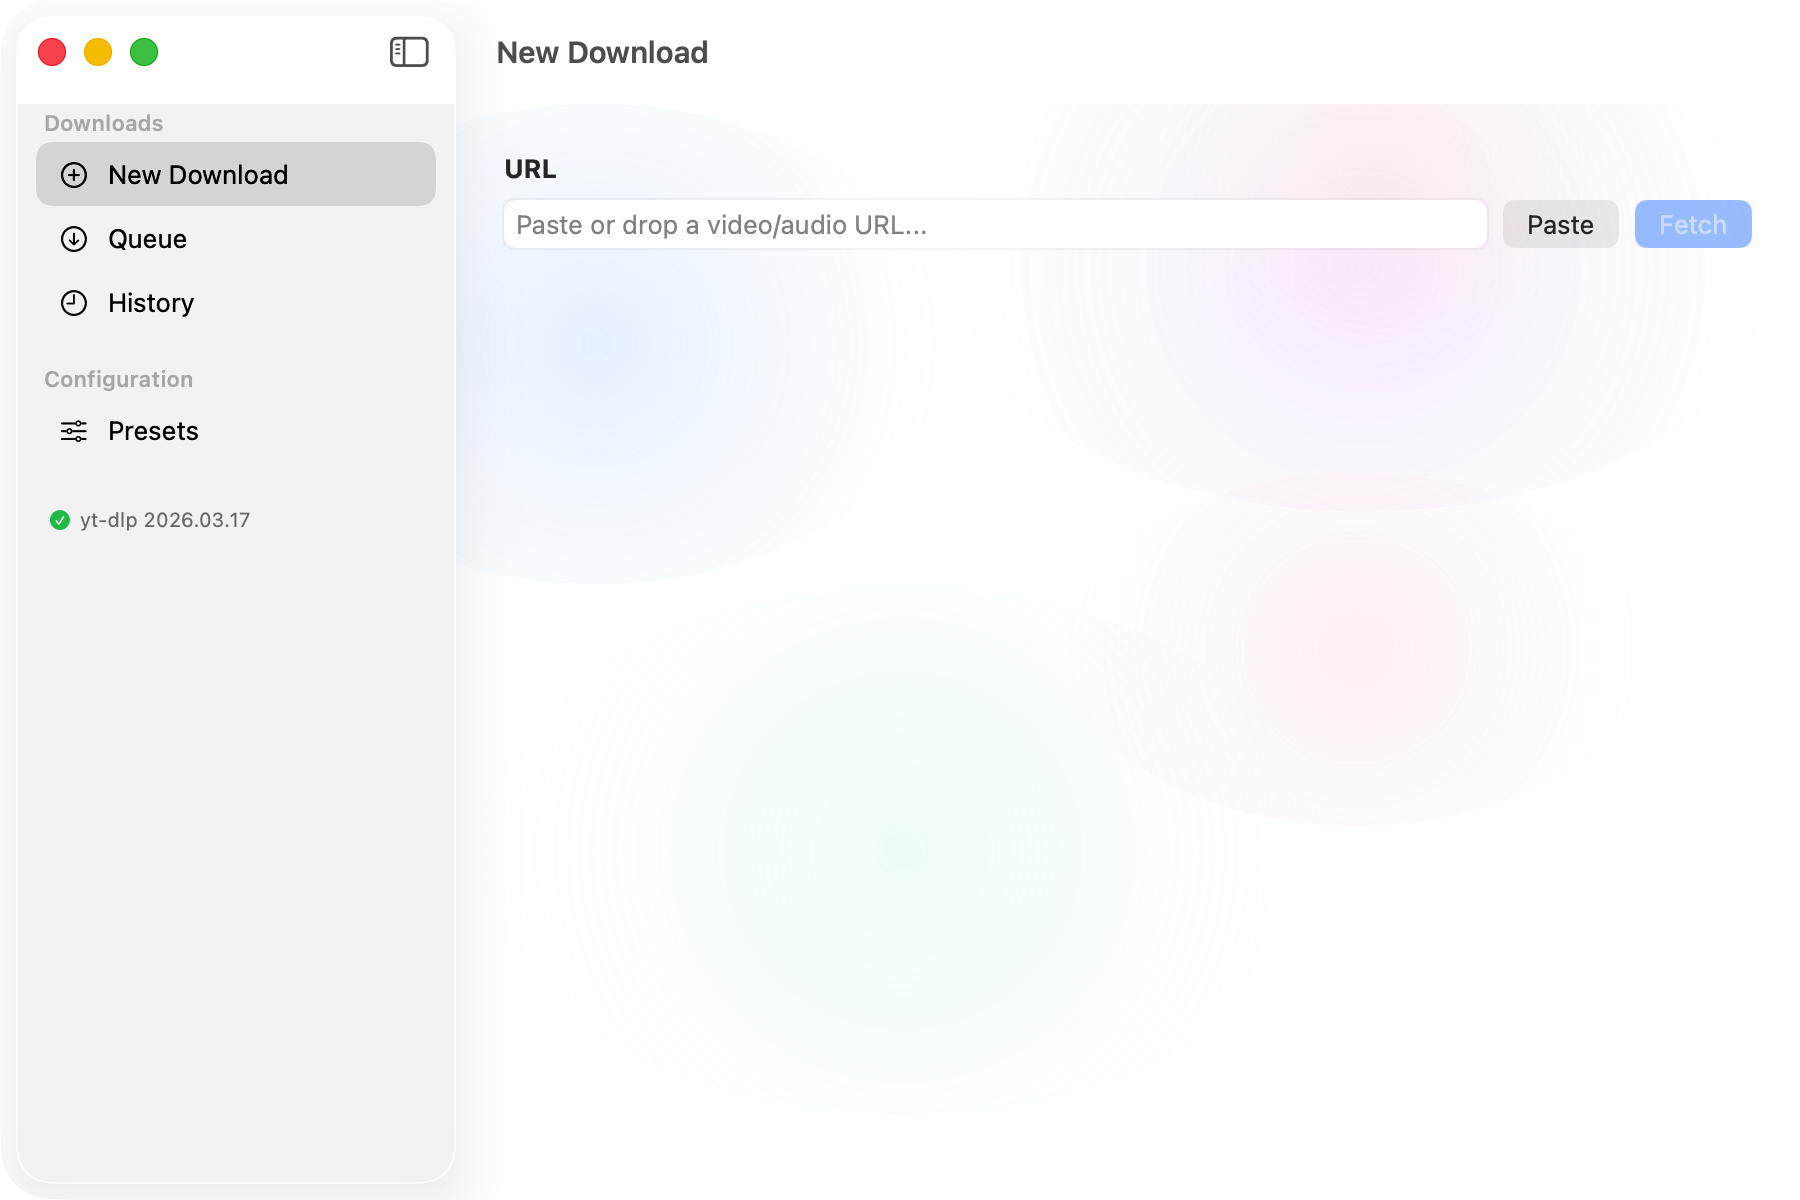
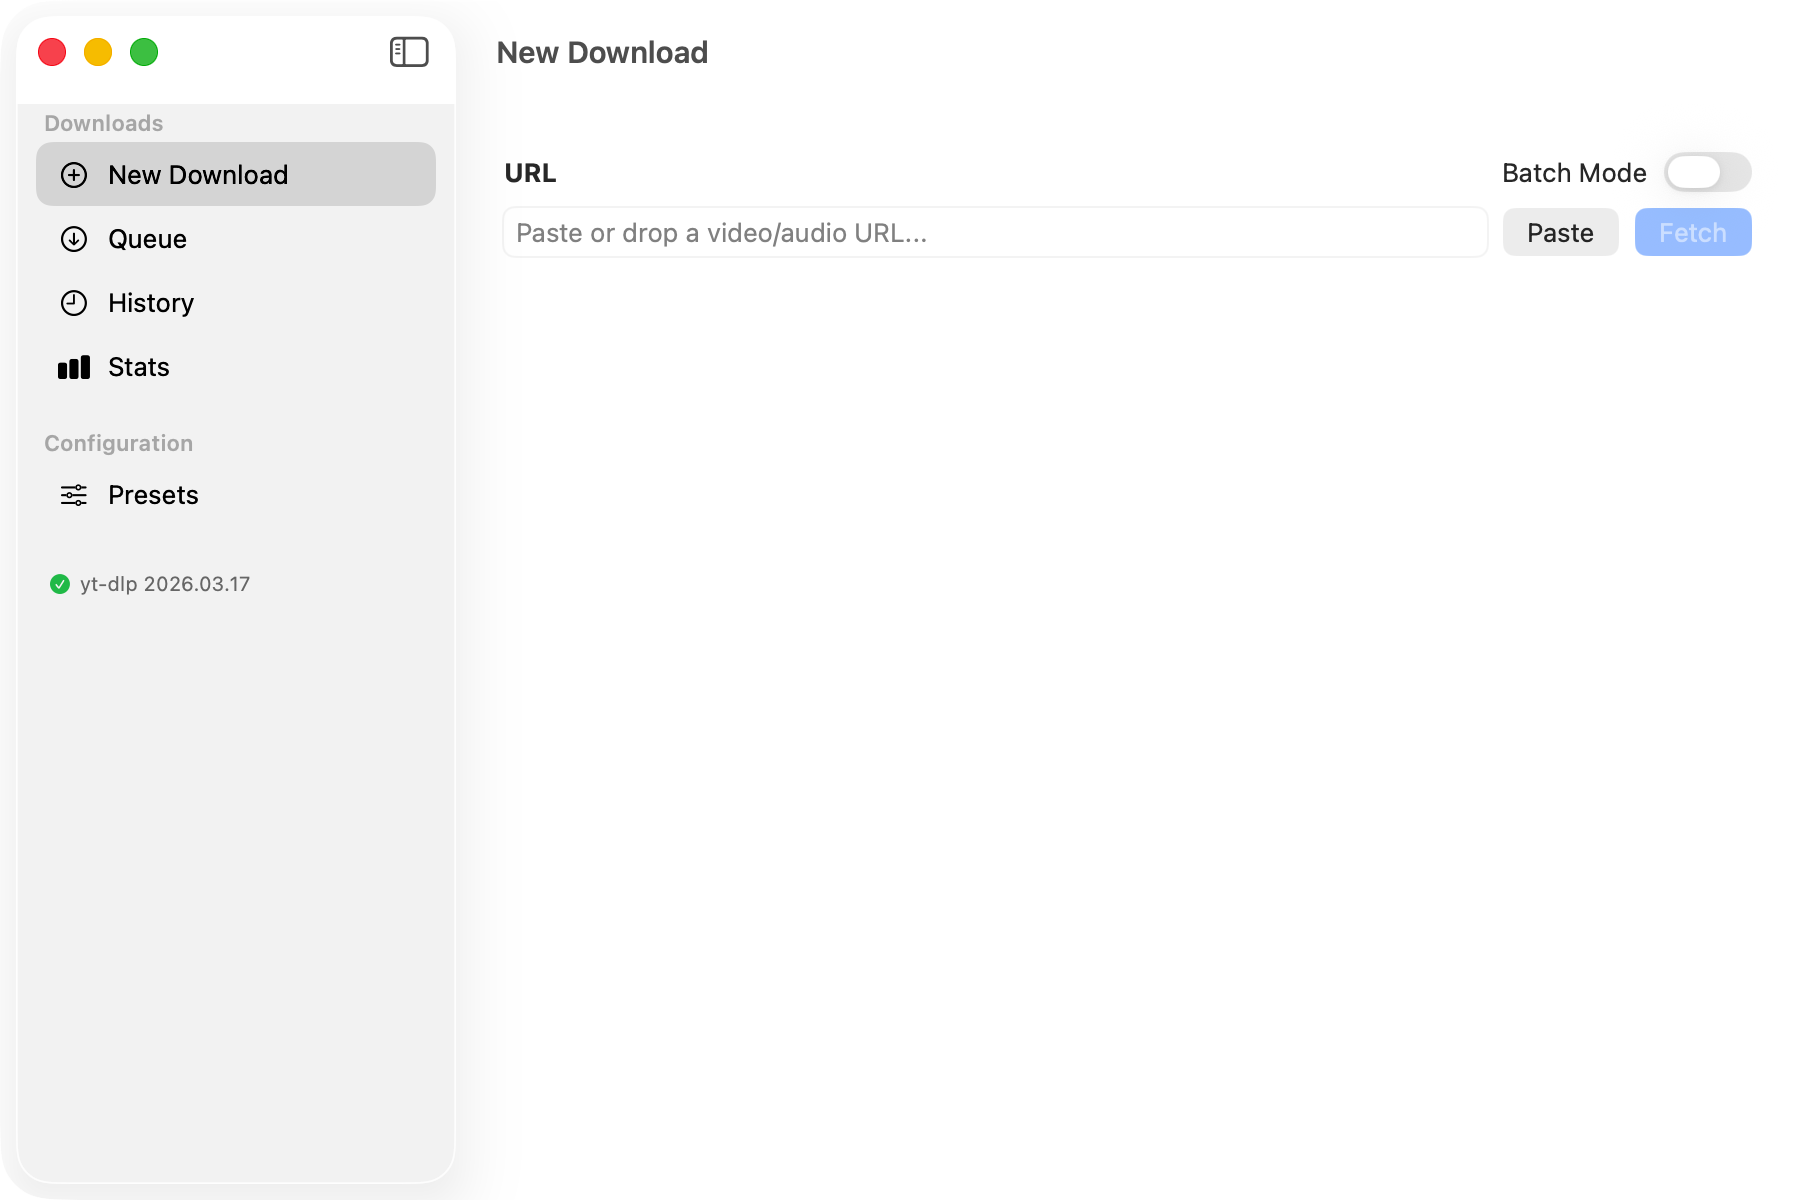
docs: update CHANGELOG, README, screenshots for all new features
- CHANGELOG.md: comprehensive update with all features from this session
  (stats, onboarding, batch URLs, advanced options, AI suggestions,
  thumbnails, file tracking, 16+ bug fixes)
- README.md: 7 screenshots (added media-info and stats views),
  expanded feature list with stats, AI suggestions, batch, advanced
- Screenshots retaken from latest build with all new views

diff --git a/CHANGELOG.md b/CHANGELOG.md
@@ -6,11 +6,19 @@ Format follows [Keep a Changelog](https://keepachangelog.com/).
 ## [Unreleased]
 
 ### Added
-- Animated aurora gradient backgrounds on New Download and empty states
-- Shimmer effect on download progress bars
+- **Stats dashboard** — Swift Charts with bar (extractor), pie (format), line (timeline) charts
+- **Interactive onboarding** — 4-step walkthrough on first launch with Skip option
+- **Rotating tip banners** — contextual tips in empty queue state
+- **Batch URL support** — multi-line input, JSON/CSV parsing, file drop, smart URL extraction
+- **Advanced options panel** — subtitles, SponsorBlock, cookies, speed limit, output template
+- **AI-friendly suggestions** — contextual tips (Whisper, podcast AI, auto-subs, SponsorBlock)
+- **Thumbnail previews** — in download queue and history rows
+- **File tracking** — history detects when downloaded files are deleted/moved
+- **Pulsing glow indicator** — animated dot for active downloads
+- Shimmer gradient effect on download progress bars
 - macOS notifications on download completion with "Show in Finder" and "Open" actions
-- Dock badge showing active download count
-- Drag-and-drop URL support in New Download view
+- Dock badge showing active download count (only active, not completed)
+- Drag-and-drop URL support (URLs + text files) in New Download view
 - Clipboard monitoring for media URLs with inline banner
 - VoiceOver accessibility labels on all interactive elements
 - WCAG AA contrast compliance throughout
@@ -20,6 +28,11 @@ Format follows [Keep a Changelog](https://keepachangelog.com/).
 - Preset editor with built-in and custom presets
 - MenuBarExtra with active download summary
 - Settings window (General, Downloads, Advanced tabs)
+- Apple design system tokens (DesignSystem.swift) — colors, spacing, radius, elevation
+- Card elevation modifiers and glass-morphism backgrounds
+- GitHub Pages landing page at twitchyvr.github.io/Fetch/
+- Wiki with Architecture, Getting Started, yt-dlp Integration pages
+- AGPL-3.0 license, CONTRIBUTING.md, issue/PR templates
 
 ### Fixed
 - Download cancellation now actually terminates the yt-dlp process
@@ -28,22 +41,25 @@ Format follows [Keep a Changelog](https://keepachangelog.com/).
 - Orphaned yt-dlp processes on app quit
 - Thread pool starvation from blocking shell() calls
 - ClipboardMonitor timer duplication on window re-show
-- Deprecated NSApp.activate(ignoringOtherApps:) API
-- "Clear Finished" button disabled logic edge case
-- VoiceOver double-reading in combined accessibility containers
-- History auto-saves on download completion (crash-safe with explicit save)
-- Save deduplication prevents double history entries
+- Settings now wired to DownloadManager (maxConcurrent, outputDirectory)
+- isVideoOnly/isAudioOnly operator precedence bug fixed
+- "Download Again" in History actually re-enqueues (was just copying URL)
+- fetchInfo() cancels previous in-flight task before starting new
+- Queue sidebar badge only counts active downloads (not completed)
+- Sidebar "New Download" text no longer clips (columnWidth on correct view)
+- Onboarding: Skip button, Return key advances, dismissable
+- File size populated from disk in download history
+- FileManager.fileExists dispatched to background thread (scroll perf)
+- Accessibility: thumbnails hidden from VoiceOver, labels on all rows
+- Progress overlay contrast improved for light thumbnails
 
 ### Changed
 - Upgraded text from caption2 to caption for contrast compliance
-- Replaced .tertiary with .secondary foreground styles
-- Changed .ultraThinMaterial to .regularMaterial on clipboard banner
-- Clipboard detection scoped to known media hosts (manual paste/drop accepts any URL)
-- YTDLPService re-encapsulated with pass-through methods on DownloadManager
-- Color.accentColor used instead of hardcoded .blue
+- Color.accentColor used instead of hardcoded .blue throughout
 - MenuBarExtra switched to .window style
-- "New Preset" button moved to toolbar (macOS HIG)
 - shell() refactored to fully async terminationHandler pattern
+- DownloadManager.service re-encapsulated (private + pass-through methods)
+- Clipboard detection scoped to known media hosts (manual paste accepts any URL)
 
 ## [0.1.0] - 2026-04-06
 

diff --git a/README.md b/README.md
@@ -12,29 +12,33 @@ Fetch wraps yt-dlp with a polished native interface — paste a URL, pick a form
 
 ## Screenshots
 
-| New Download | Download Queue | History |
+| New Download | Media Info + AI Suggestions | Stats Dashboard |
 |:---:|:---:|:---:|
-| ![New Download](screenshots/new-download-view.png) | ![Queue](screenshots/queue-view.png) | ![History](screenshots/history-view.png) |
+| ![New Download](screenshots/new-download-view.png) | ![Media Info](screenshots/media-info-view.png) | ![Stats](screenshots/stats-view.png) |
 
-| Presets | Settings |
-|:---:|:---:|
-| ![Presets](screenshots/presets-view.png) | ![Settings](screenshots/settings-view.png) |
+| Download Queue | History | Presets | Settings |
+|:---:|:---:|:---:|:---:|
+| ![Queue](screenshots/queue-view.png) | ![History](screenshots/history-view.png) | ![Presets](screenshots/presets-view.png) | ![Settings](screenshots/settings-view.png) |
 
 ## Features
 
 - **Native macOS app** — SwiftUI, Apple HIG compliant, feels like a first-party utility
-- **Animated aurora UI** — subtle animated gradient backgrounds with shimmer progress bars
+- **Stats dashboard** — Swift Charts: downloads by extractor, format distribution, activity timeline
+- **AI-friendly suggestions** — contextual tips for Whisper, podcast AI, auto-subs, SponsorBlock
+- **Advanced options** — subtitles, SponsorBlock, cookies, speed limit, output template, proxy
+- **Batch downloads** — paste multiple URLs, drop text/JSON files, smart URL extraction
+- **Interactive onboarding** — 4-step walkthrough with Skip option, rotating tips
 - **Dynamic format discovery** — queries yt-dlp per-URL for available formats, resolutions, and codecs
-- **Download queue** — concurrent downloads with real-time progress, speed, and ETA
+- **Download queue** — concurrent downloads with shimmer progress bars and thumbnail previews
 - **macOS notifications** — banner notifications on download completion with "Open" and "Show in Finder" actions
 - **Dock badge** — shows active download count
 - **Clipboard monitoring** — detects media URLs copied to clipboard and offers one-click download
-- **Drag-and-drop** — drop URLs from any browser directly into the app
+- **Drag-and-drop** — drop URLs or text files from any browser directly into the app
+- **File tracking** — history detects when downloaded files are deleted or moved
 - **Download presets** — save format/quality/output configurations for different use cases
-- **Download history** — SwiftData-backed history with search, persists immediately
+- **Download history** — SwiftData-backed history with search, thumbnails, relative dates
 - **Menu bar presence** — monitor downloads from the menu bar (window-style MenuBarExtra)
 - **Full accessibility** — VoiceOver labels, WCAG AA contrast, keyboard navigation
-- **Auto-update checking** — knows when yt-dlp has an update available
 - **Option discovery** — parses `yt-dlp --help` at runtime to expose all available options
 - **1800+ supported sites** — anything yt-dlp supports, Fetch supports
 
